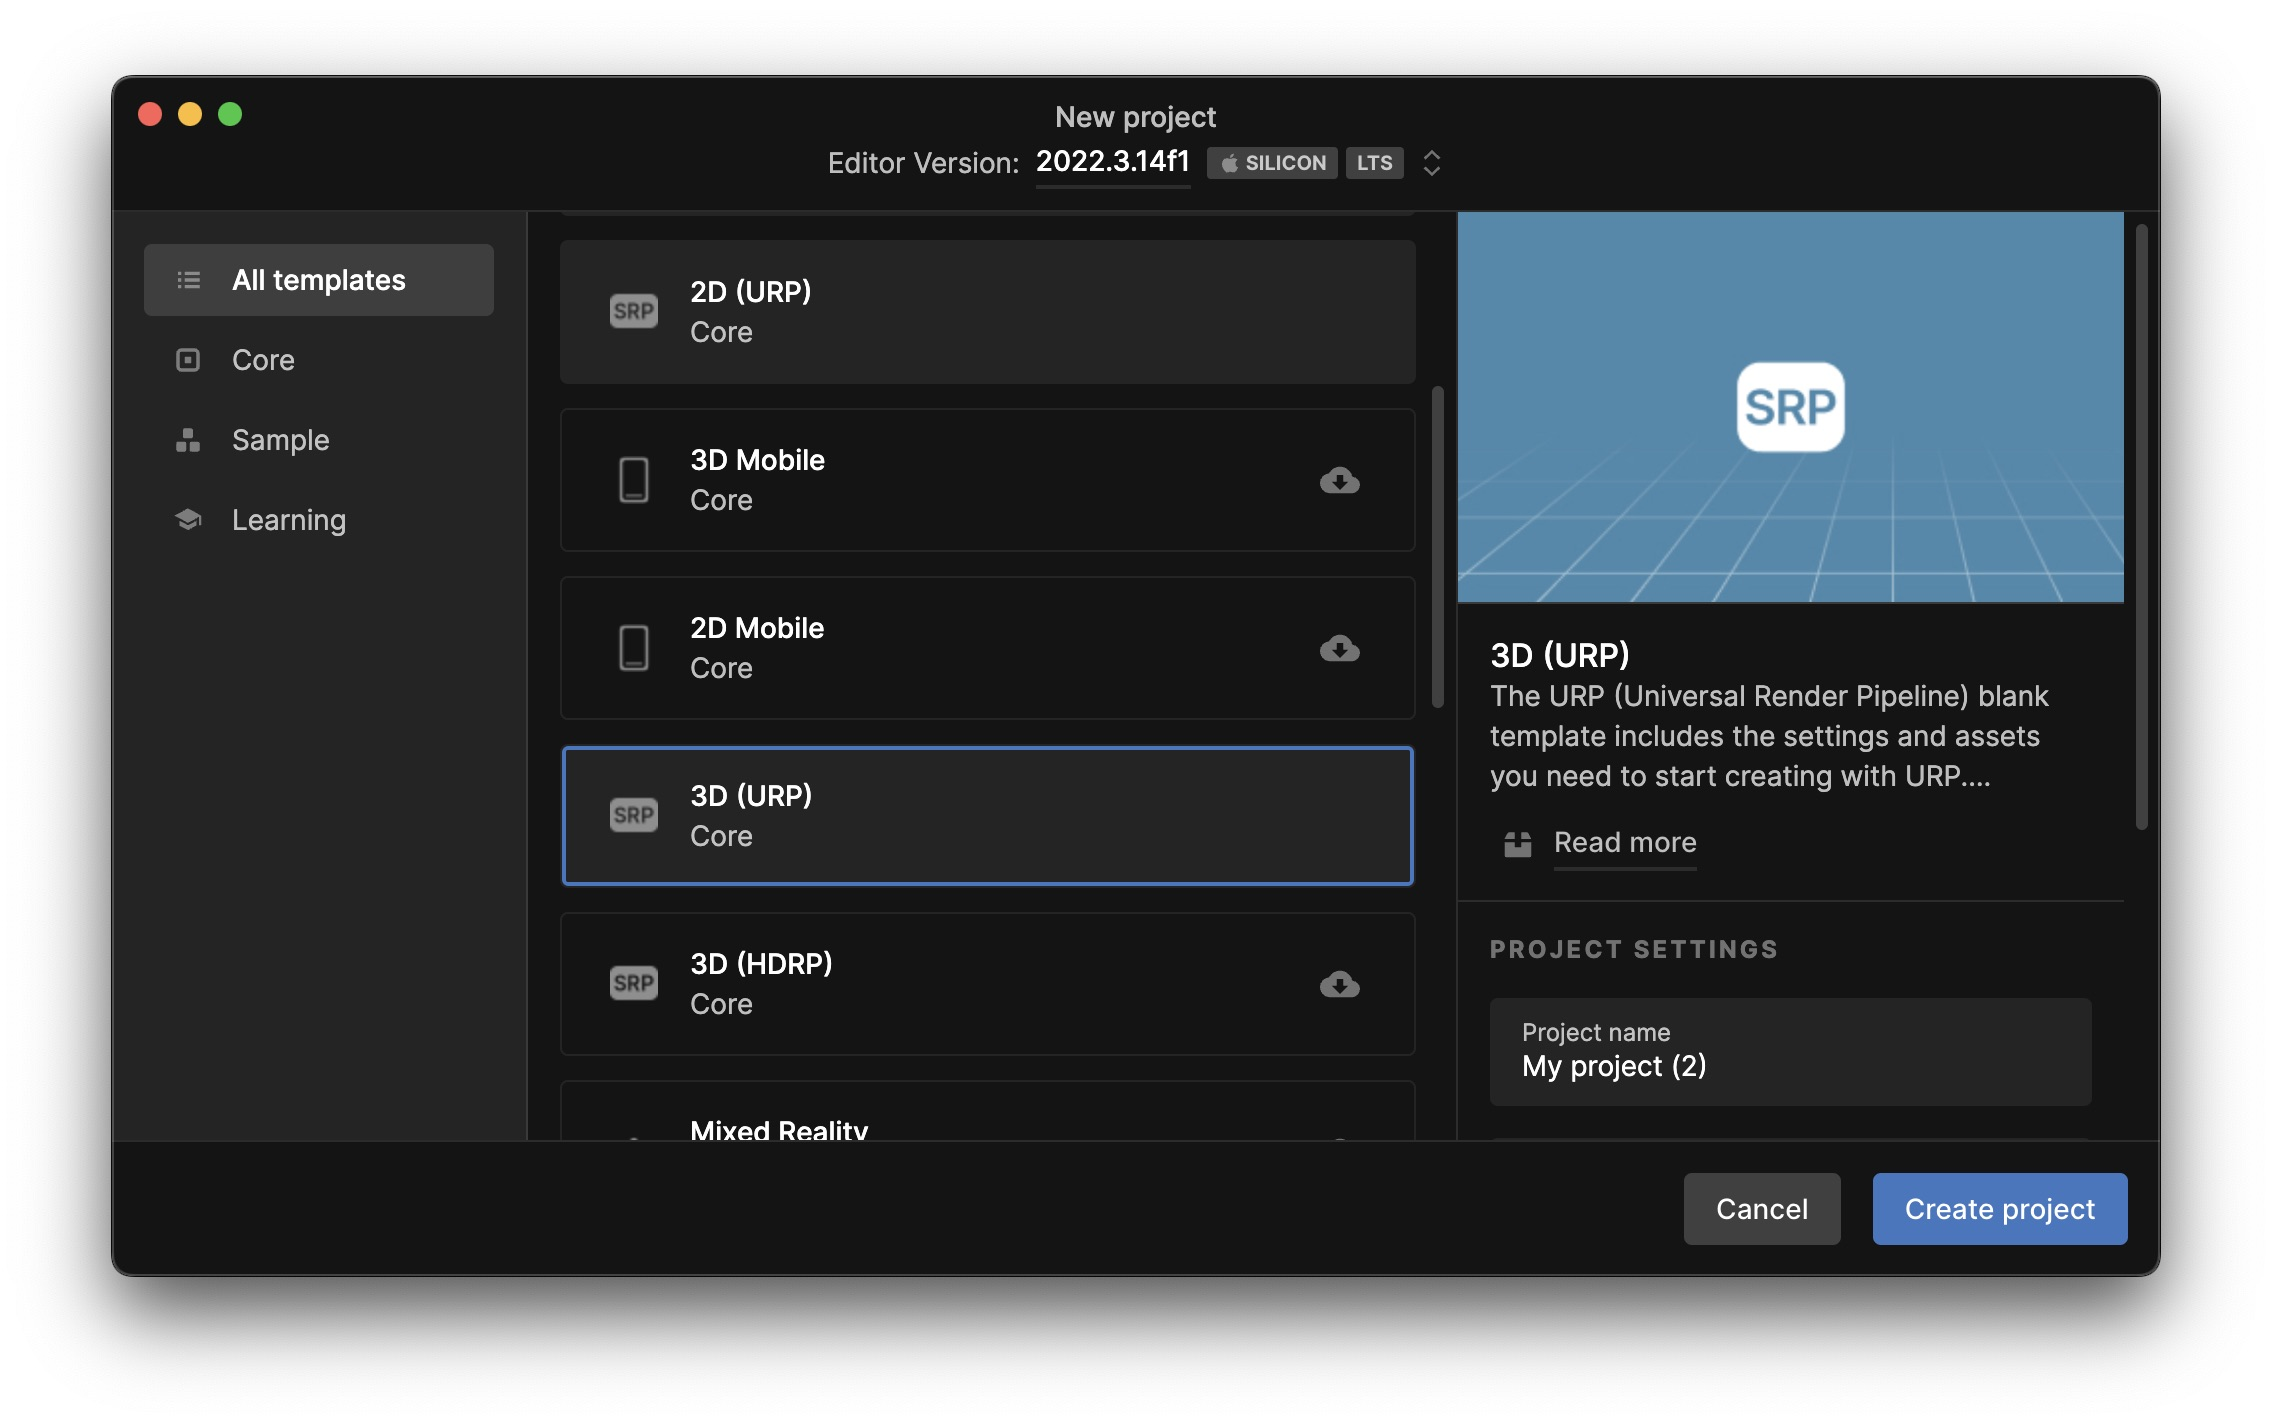
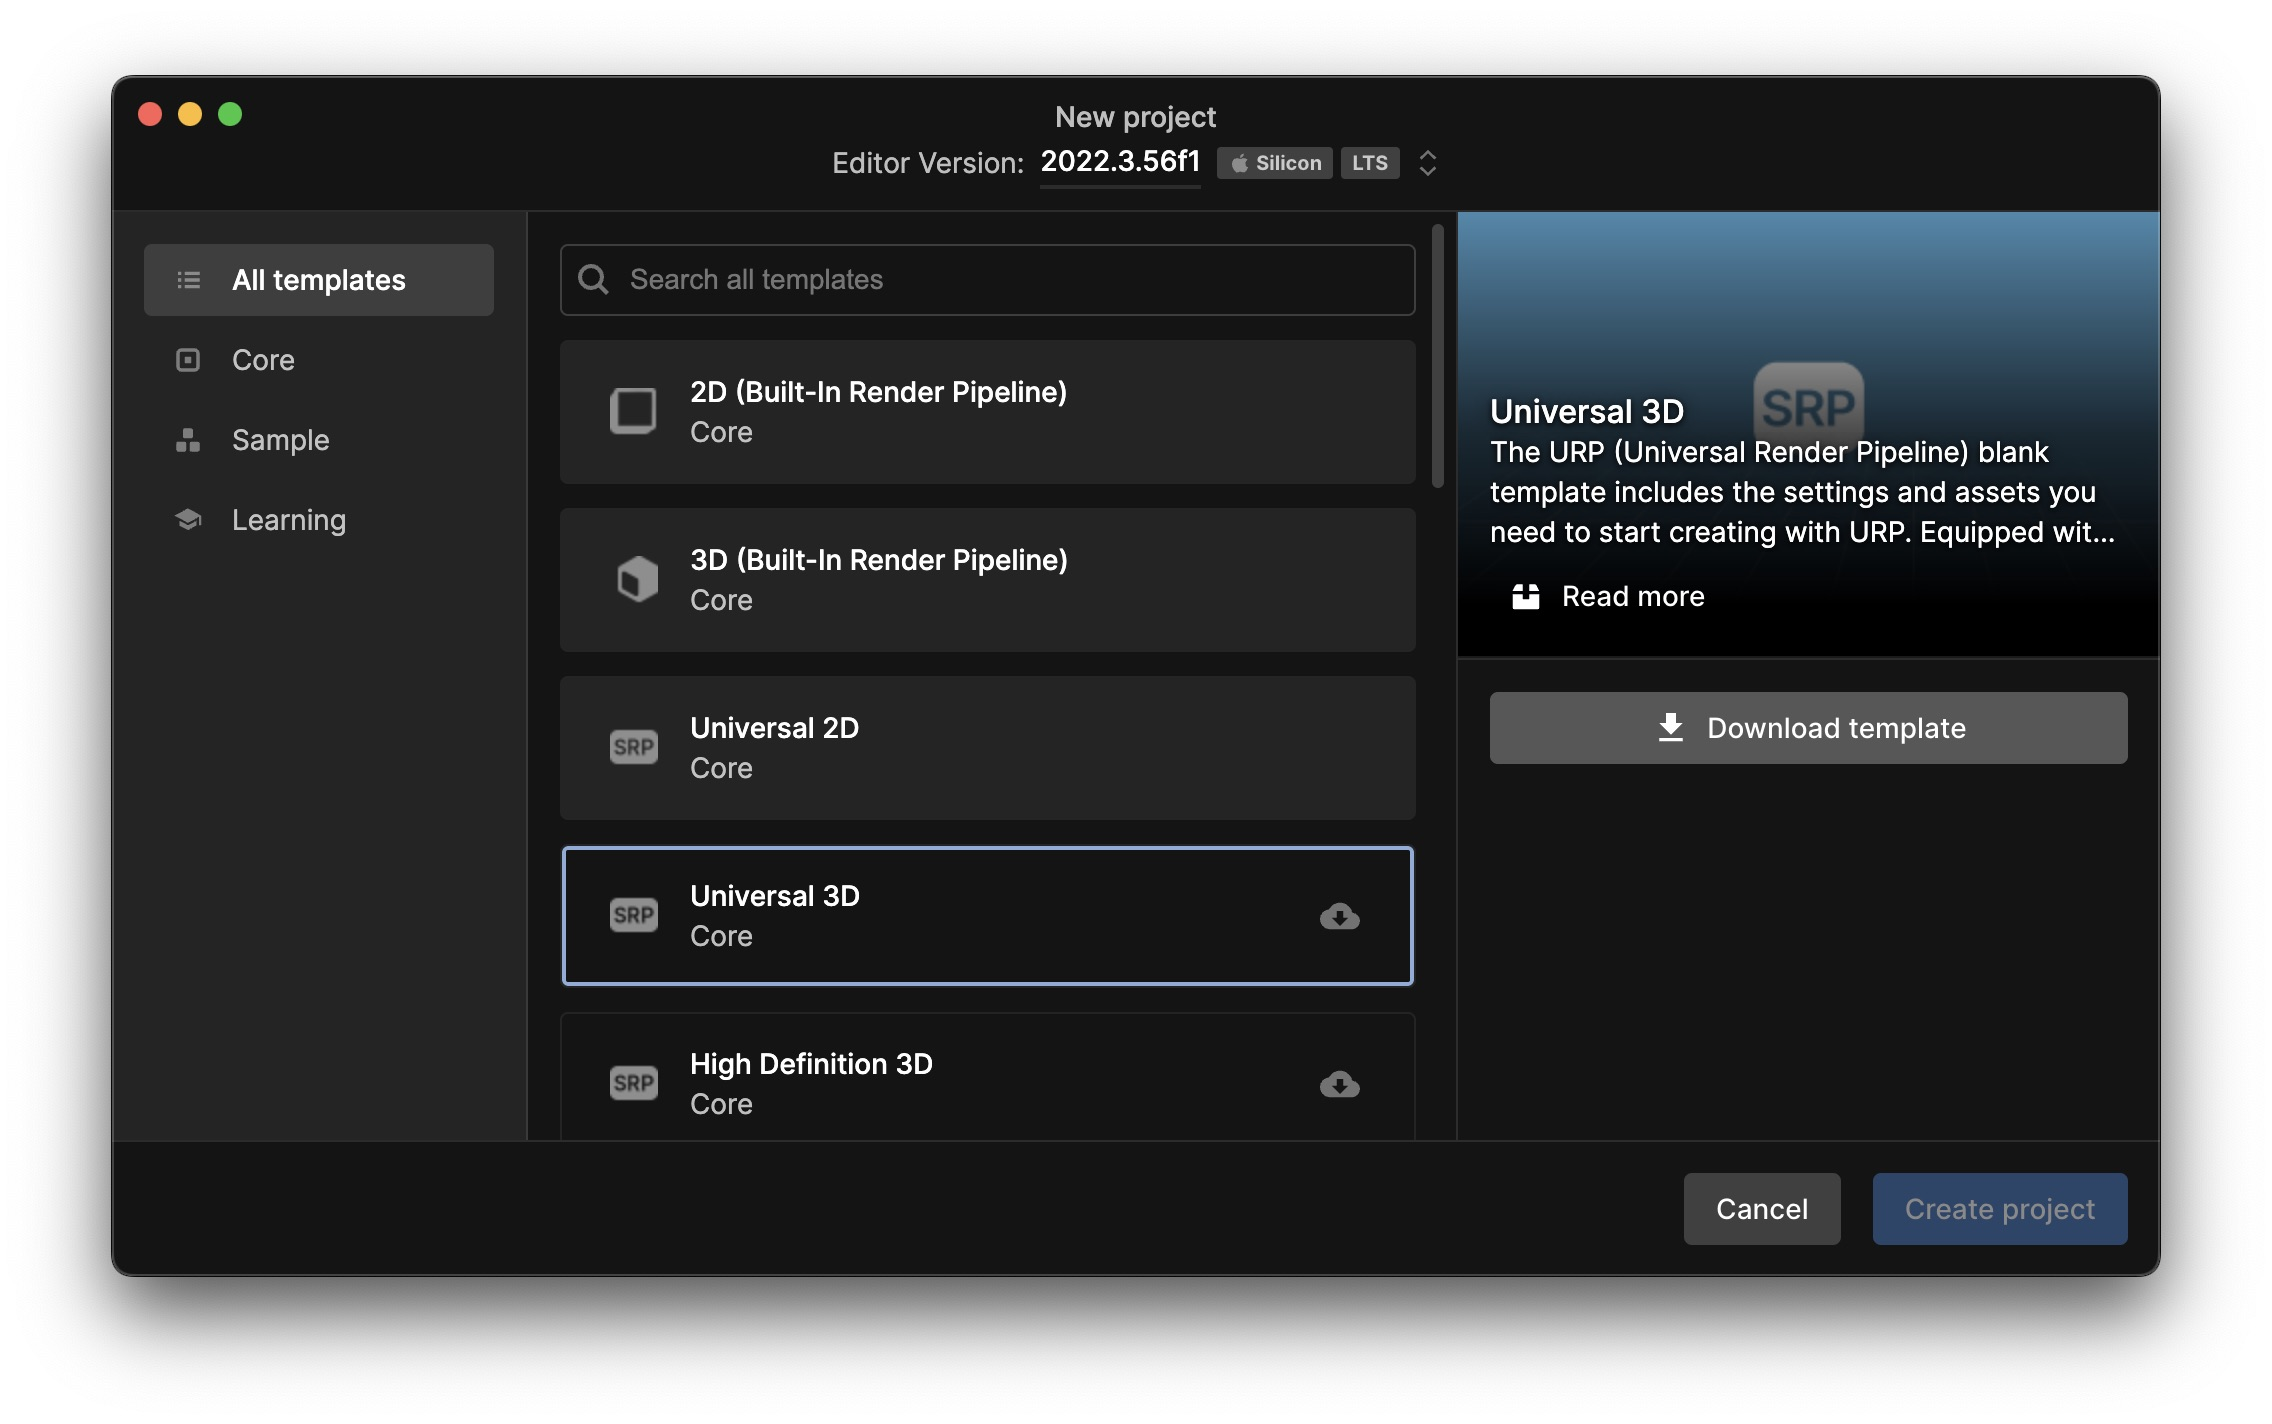
UpdatedInstallation

diff --git a/gettingstarted.md b/gettingstarted.md
@@ -32,5 +32,8 @@ Sign up for a Unity Account and acivate the license.
 Go to the Unity Hub and click on "New project" and choose 2022.3.56 (different than in the screenshot)
 ![](images/newproject1.jpg)
 
-Then select "3D URP", choose a name for your project and click on "Create project"
-![](images/newproject2.jpg)
+Then select "Universal 3D" under "All Templates" and Download the Template. 
+![](images/newproject2.jpeg)
+
+Then choose a name for your project and click on "Create project"
+![](images/newproject3.jpeg)
